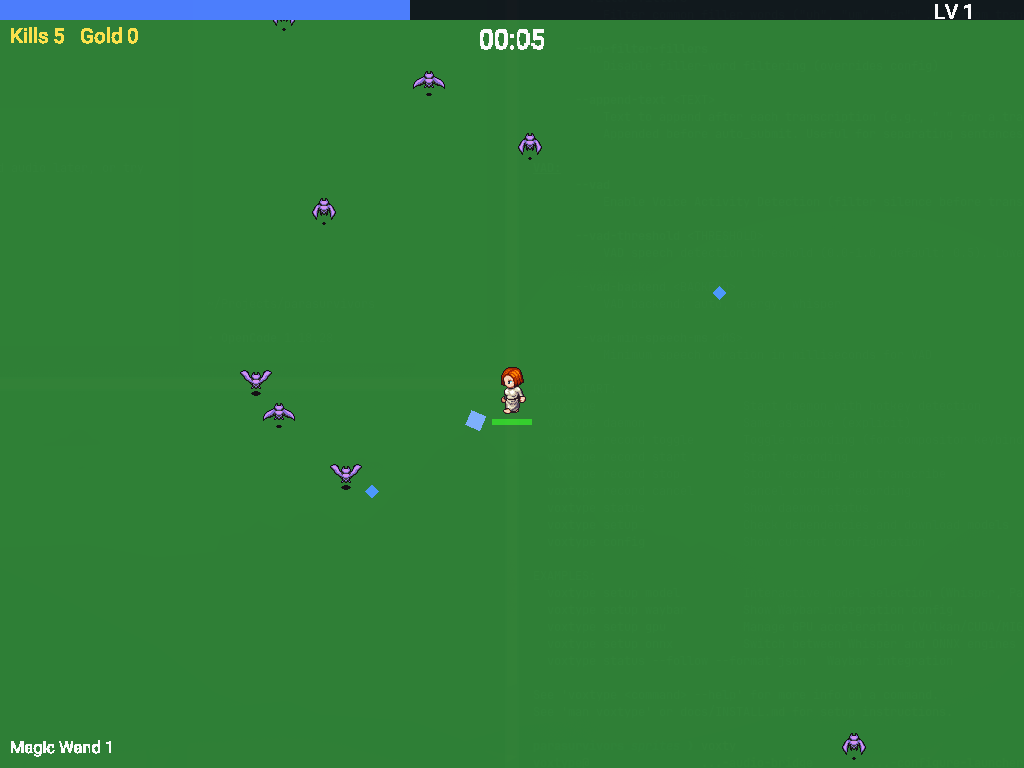
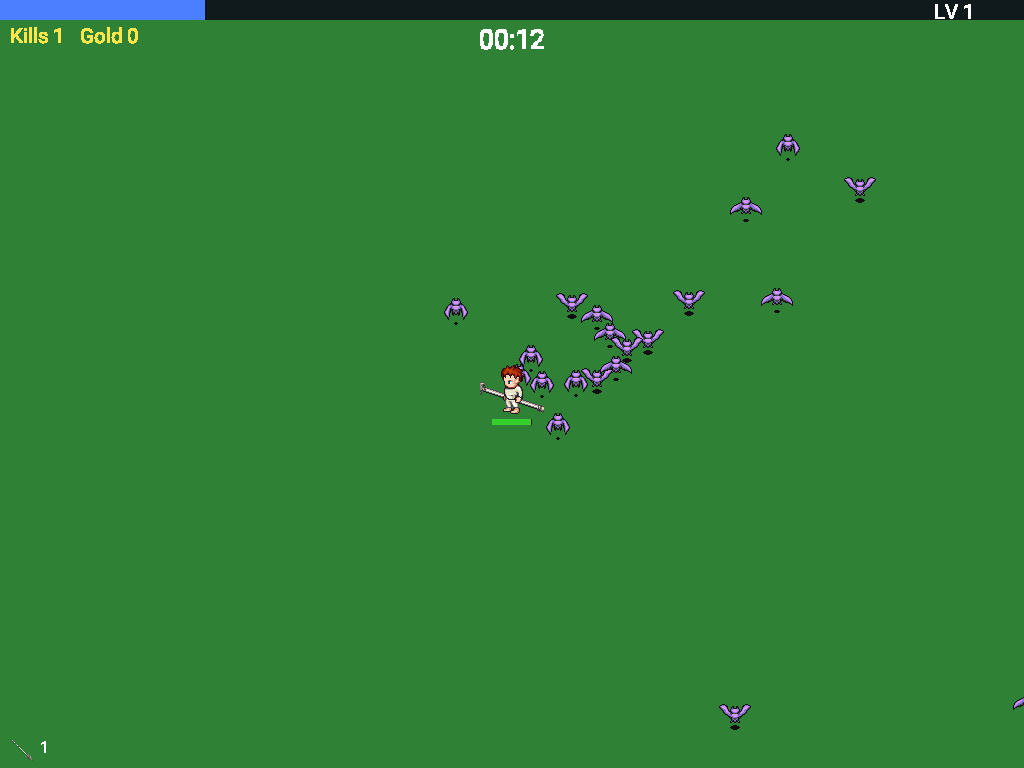
docs: LPC weapons, starter animations, adding-a-weapon guide, new screenshots
README and CREDITS.md still described the pre-sprite weapons. Retable the
survivors and weapons, note that a survivor's starting weapon is swung by the
body animation, add an "Adding a weapon" recipe, and credit the two icon packs
and the generator weapon layers.

All ten README screenshots re-shot against the sprite build. screenshots.sh now
forces the window opaque so the desktop stops ghosting through the grass.

Claude-Session: https://claude.ai/code/session_019VGNJYtoUzydpJzfWTW15h

diff --git a/README.md b/README.md
@@ -6,7 +6,7 @@ weapons fire on their own while the waves get bigger. Survive 30 minutes and the
 
 ![Mid-run: several weapons firing into a crowd](docs/screenshots/mid-game.png)
 
-The whole game is about 2000 lines of Nim. All game state lives in a
+The whole game is about 2200 lines of Nim. All game state lives in a
 [pararules](https://github.com/paranim/pararules) session as `(id, attribute, value)` facts, and every
 sound effect is a MIDI phrase rendered at startup, so the repository has no audio files at all.
 
@@ -52,10 +52,13 @@ small permanent perk.
 
 | Survivor | Starting weapon | Perk | HP |
 |---|---|---|---|
-| Otto | Whip | +10% might | 120 |
-| Imma | Magic Wand | -10% cooldown | 100 |
-| Lina | Runetracer | +20% projectile speed | 90 |
-| Gino | Knife | +1 projectile | 100 |
+| Otto | Dragon Spear | +10% might | 120 |
+| Imma | Arcane Staff | -10% cooldown | 100 |
+| Lina | War Axe | +20% projectile speed | 90 |
+| Gino | Longbow | +1 projectile | 100 |
+
+Each survivor carries their starting weapon and swings, draws or casts it every time it fires. Weapons
+picked up later fire on their own without a body animation.
 
 The first minute is bats. Kill them, pick up the blue gems they drop, and watch the XP bar at the top.
 
@@ -68,13 +71,13 @@ you own, or a passive item. Six weapon slots, six passive slots, eight levels pe
 
 | Weapon | Behaviour |
 |---|---|
-| Whip | horizontal slash in front of you, passes through everything |
-| Magic Wand | homes in on the nearest enemy |
-| Knife | fast projectile in the direction you face |
-| Axe | high damage, arcs up and falls back down |
-| Runetracer | bounces off the screen edges, passes through enemies |
+| Dragon Spear | lunges in the direction you face, passes through everything |
+| Arcane Staff | homes in on the nearest enemy |
+| Longbow | arrows fly in the direction you face |
+| War Axe | high damage, arcs up and falls back down |
+| Boomerang | flies out, curves back to you, hits on both legs |
 | Garlic | damages everything within a ring around you |
-| King Bible | books orbit around you |
+| Round Shield | shields orbit around you |
 
 | Passive | Per level |
 |---|---|
@@ -95,7 +98,7 @@ Koala at 8, 15 and 25, and the Reaper at 30. Bosses drop a chest that levels a w
 ![Late waves](docs/screenshots/late-game.png)
 
 Past minute 30 the Reaper shows up: 65535 HP, faster than you, and it deals 999 damage on touch.
-This run is the immortal `-d:autoplay` test build, which is the only reason it is still going at 32:24.
+This run is the immortal `-d:autoplay` test build, which is the only reason it is still going at 36:03.
 
 ![The Reaper](docs/screenshots/reaper.png)
 
@@ -147,6 +150,19 @@ cd tests && nim c -r -d:release --hints:off --outdir:../tmp bench.nim   # one ti
 
 The design and the implementation plan the code was built from are in `docs/superpowers/`.
 
+### Adding a weapon
+
+Everything a weapon needs is data. To add one:
+
+1. `src/data.nim`: add the value to `WeaponKind`, a `weaponDefs` row (pick a `motion`, a `sprite`,
+   `drawScale`, `spin`; `anim` only matters if a survivor starts with it) and a `weaponUpgrades` row
+   for levels 2-8.
+2. If it needs new art: add an `icon NAME ...` line to `tools/fetch_assets.sh`, a `SprNAME` value to
+   `Sprite`, run `nimble assets`. A sprite missing from `items.txt` fails to compile.
+3. A new movement style is a new `Motion` value with a branch in `systems.attackPlan` (spawn) and
+   `rules.moveProjectiles` (per tick), plus a test in `tests/test_systems.nim`.
+4. `nimble test`, then `tools/screenshots.sh` to look at it.
+
 ### Performance notes
 
 Every entity keeps a single `Pos` fact and every per-entity rule lists `(id, Pos, pos)` first and
@@ -163,9 +179,18 @@ The code is MIT. The art is not mine:
   [Universal LPC Spritesheet Generator](https://github.com/liberatedpixelcup/Universal-LPC-Spritesheet-Character-Generator),
   CC-BY-SA 3.0 (each layer's authors, licenses and source pages are listed per file in
   `src/assets/CREDITS-lpc.csv`).
-- The bat and the grass tile are from the
+  The weapons the survivors hold and swing (dragon spear, staff, bow and arrow, war axe, round shield)
+  are generator layers too.
+- The bat, the grass tile and the chest are from the
   [LPC Base Assets](https://opengameart.org/content/liberated-pixel-cup-lpc-base-assets-sprites-map-tiles)
   by Charles Sanchez and Lanea Zimmerman.
+- The pickup, passive and effect icons come from Tuomo Untinen's (reemax)
+  ["\[LPC\] Items and game effects"](https://opengameart.org/content/lpc-items-and-game-effects),
+  CC-BY-SA 3.0 / GPL (every contributor is named in `src/assets/CREDITS-lpc-items.txt`); the weapon
+  icons are single frames cut from the generator layers above.
+- The garlic is from bluecarrot16, Daniel Eddeland, Joshua Taylor and Richard Kettering's
+  ["\[LPC\] Food"](https://opengameart.org/content/lpc-food), CC-BY-SA 3.0 / GPL 3.0 (contributors in
+  `src/assets/CREDITS-lpc-food.txt`).
 - The koala boss is the Super Koalio sprite from the [libgdx](https://github.com/libgdx/libgdx) tests
   (Apache 2.0); the parakeet boss is from Zach Oakes' [parakeet](https://github.com/paranim/parakeet) demo.
 - Roboto is Google's, Apache 2.0. Instrument samples are

diff --git a/src/assets/CREDITS.md b/src/assets/CREDITS.md
@@ -16,10 +16,14 @@ repository, if you reuse the art.
 
 | composed file | LPC layers (bottom to top) |
 |---|---|
-| `otto.png` | body/bodies/male, legs/pants/male, torso/clothes/longsleeve/male, head/heads/human/male, hair/bedhead |
-| `imma.png` | body/bodies/female, legs/skirts/plain/thin, torso/clothes/longsleeve/female, head/heads/human/female, hair/bob |
-| `lina.png` | body/bodies/female, legs/pantaloons/thin, torso/clothes/shortsleeve/female, head/heads/human/female, hair/bangs |
-| `gino.png` | body/bodies/male, legs/pants/male, torso/clothes/shortsleeve/male, head/heads/human/male, hair/balding |
+| `otto.png` | weapon/polearm/dragonspear/background/walk, body/bodies/male, legs/pants/male, torso/clothes/longsleeve/male, head/heads/human/male, hair/bedhead, weapon/polearm/dragonspear/foreground/walk |
+| `otto_attack.png` | the same layers on the thrust animation, with weapon/polearm/dragonspear/{background,foreground}/thrust |
+| `imma.png` | weapon/magic/simple/background/walk, body/bodies/female, legs/skirts/plain/thin, torso/clothes/longsleeve/female, head/heads/human/female, hair/bob, weapon/magic/simple/foreground/walk |
+| `imma_attack.png` | the same layers on the spellcast animation, with weapon/magic/simple/{background,foreground}/spellcast |
+| `lina.png` | weapon/blunt/waraxe/behind/walk, body/bodies/female, legs/pantaloons/thin, torso/clothes/shortsleeve/female, head/heads/human/female, hair/bangs, weapon/blunt/waraxe/walk |
+| `lina_attack.png` | the same layers on the slash animation, with weapon/blunt/waraxe/attack_slash (behind and in front) |
+| `gino.png` | weapon/ranged/bow/normal/walk/background, body/bodies/male, legs/pants/male, torso/clothes/shortsleeve/male, head/heads/human/male, hair/balding, weapon/ranged/bow/normal/walk/foreground |
+| `gino_attack.png` | the same layers on the shoot animation, with weapon/ranged/bow/normal/universal/{background,foreground}/shoot and weapon/ranged/bow/arrow/shoot |
 | `skeleton.png` | body/bodies/skeleton |
 | `zombie.png` | body/bodies/zombie |
 | `reaper.png` | body/bodies/skeleton, hat/cloth/hood, then darkened |
@@ -42,13 +46,29 @@ The composed and recoloured PNGs are derivative works and are distributed under
 > Inboxninja, kcilds/Rocetti/Eredah, Napsio (Vitruvian Studio), The Foreman, AntumDeluge, Ahmad3366.
 > Per-file details: CREDITS-lpc.csv.
 
-## LPC Base Assets (`bat.png`, `grass.png`)
+## LPC Base Assets (`bat.png`, `grass.png`, the chest icon in `items.png`)
 
 Source: [Liberated Pixel Cup (LPC) Base Assets](https://opengameart.org/content/liberated-pixel-cup-lpc-base-assets-sprites-map-tiles),
 offered under CC-BY-SA 3.0, GPL 3.0 and OGA-BY 3.0. Full credits in `CREDITS-lpc-base.txt`.
 
 - `bat.png` (`sprites/monsters/bat.png`): Charles Sanchez (CharlesGabriel).
 - `grass.png` (`tiles/grass.png`): Lanea Zimmerman (Sharm).
+- the chest icon (`tiles/chests.png`): Lanea Zimmerman (Sharm).
+
+## Icon atlas (`items.png`)
+
+Weapon icons are single frames cut from the generator layers above (`weapon/polearm/dragonspear`,
+`weapon/ranged/bow/arrow`, `weapon/blunt/waraxe`, `shield/round`). The rest:
+
+- Reemax, "[LPC] Items and game effects" (https://opengameart.org/content/lpc-items-and-game-effects),
+  CC-BY-SA 3.0 / GPL 3.0 / GPL 2.0 - gems, coin, chicken, passive icons, boomerang, bolt, aura, spark,
+  vacuum burst. Full credits in `CREDITS-lpc-items.txt`.
+- bluecarrot16, Daniel Eddeland, Joshua Taylor, Richard Kettering et al., "[LPC] Food"
+  (https://opengameart.org/content/lpc-food), CC-BY-SA 3.0 / GPL 3.0 - garlic. Full credits in
+  `CREDITS-lpc-food.txt`.
+- The chest is `tiles/chests.png` from the LPC Base Assets (Lanea Zimmerman).
+
+`items.txt` records where each icon sits in the atlas; it is generated alongside the PNG.
 
 ## `koalio.png`
 
